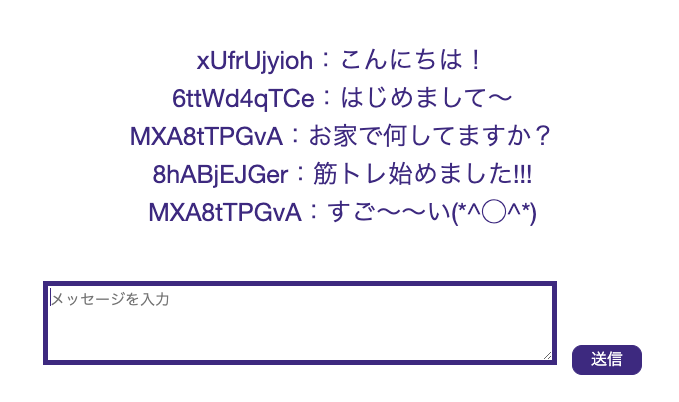
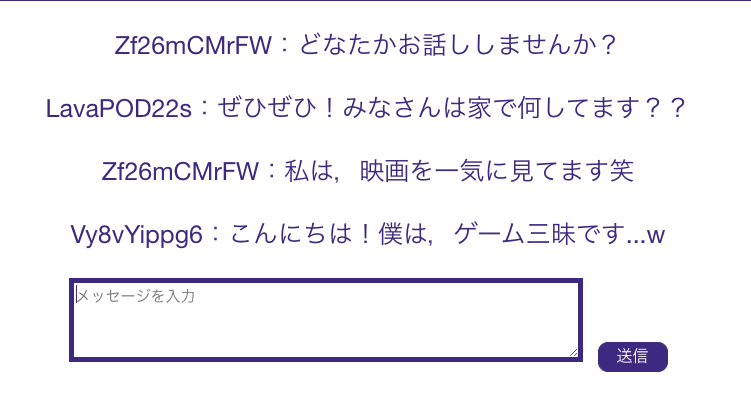
re

diff --git a/src/State.jsx b/src/State.jsx
@@ -7,15 +7,15 @@ import "./App.css";
 const State = (props) => {
   return (
     <>
-      {/* {props.someone ? ( */}
-      <div>
-        <p className="chats">
-          {props.message.user}：{props.message.text}
-        </p>
-      </div>
-      {/* ) : ( */}
-      {/* <div></div> */}
-      {/* )} */}
+      {props.someone ? (
+        <div>
+          <p className="chats">
+            {props.message.user}：{props.message.text}
+          </p>
+        </div>
+      ) : (
+        <div></div>
+      )}
     </>
   );
 };
